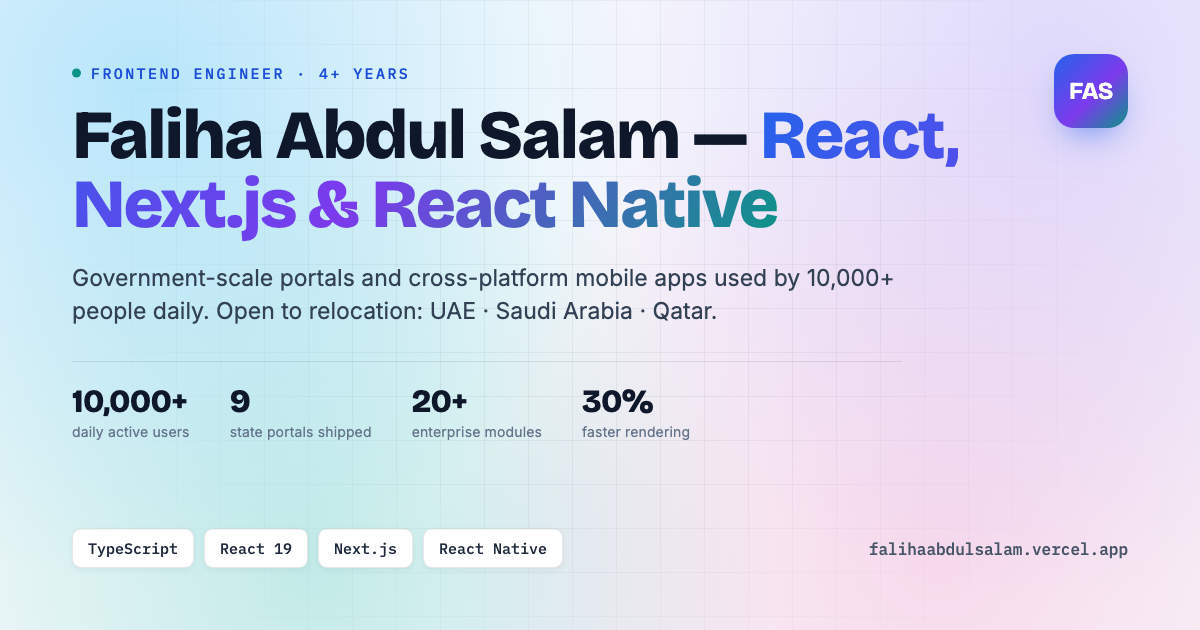
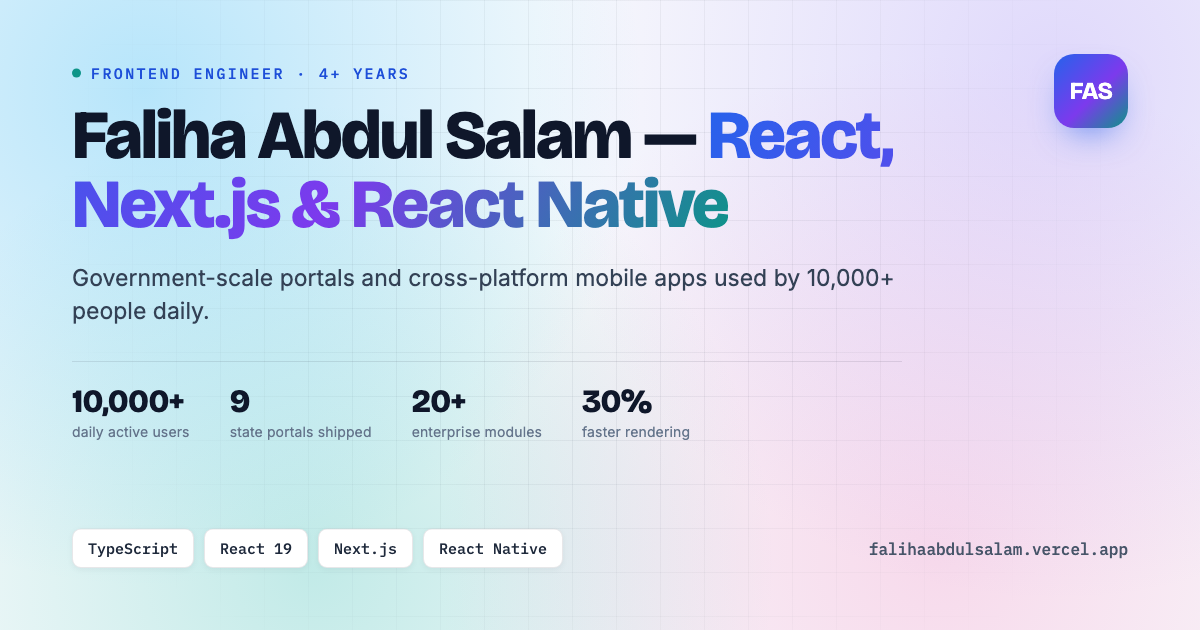
Remove relocation and visa sponsorship wording from the resume and card
The resume no longer claims a relocation preference or work authorisation, so the summary, contact block and additional section stop mentioning it; the social card drops the same sentence and is re-rendered.

🤖 Generated with Codebuff

diff --git a/og-card.html b/og-card.html
@@ -155,7 +155,6 @@
         <h1>Faliha Abdul Salam — <em>React, Next.js &amp; React Native</em></h1>
         <p class="sub">
           Government-scale portals and cross-platform mobile apps used by 10,000+ people daily.
-          Open to relocation: UAE · Saudi Arabia · Qatar.
         </p>
         <div class="stats">
           <div>
